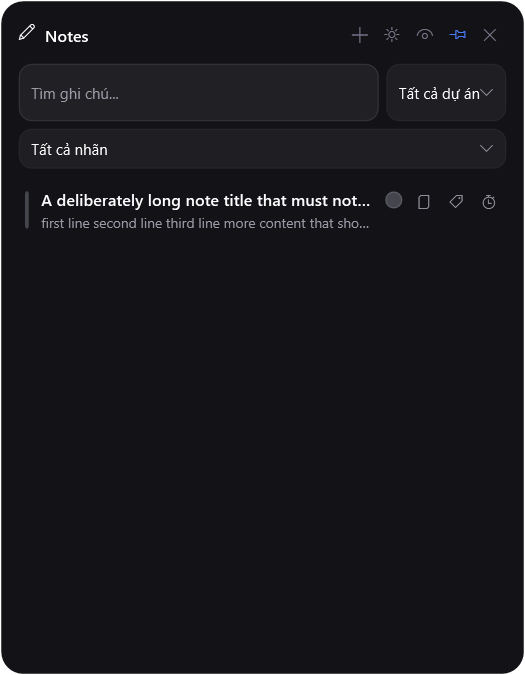
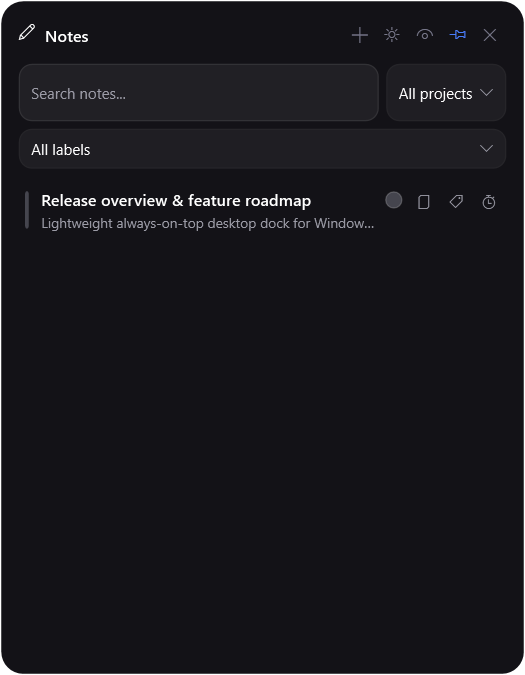
feat(docs): refresh UI screenshots to English and complete English chrome
- Switch remaining Window Tools labels and tooltips in MainWindow to English
- Re-render documentation assets (notes, translate-workspace, translate-dictionary) with English UI chrome and international demo content
- Add --render-assets flag and RenderDocumentationAssets helper to test suite
- Reorganize docs paths and ignore untracked sibling projects in .gitignore

diff --git a/NativeWidget.RoundTripTests/UiRenderSmoke.cs b/NativeWidget.RoundTripTests/UiRenderSmoke.cs
@@ -205,6 +205,94 @@ internal static class UiRenderSmoke
         }
     }
 
+    public static void RenderDocumentationAssets(string targetAssetsDir)
+    {
+        var root = Path.Combine(Path.GetTempPath(), "nativewidget-assets-" + Guid.NewGuid().ToString("N"));
+        var notes = Path.Combine(root, "notes");
+        Directory.CreateDirectory(notes);
+        const string id = "feature-overview";
+        File.WriteAllText(Path.Combine(notes, id + ".md"), string.Join('\n',
+            "# Release Overview",
+            "## Native Widget v0.1.1",
+            "Lightweight always-on-top desktop dock for Windows.",
+            "- Fast WPF UI without browser overhead",
+            "- Google Calendar and Tasks integration",
+            "- Offline-first notes and persistent timers"));
+        File.WriteAllText(Path.Combine(notes, "index.json"), JsonSerializer.Serialize(
+            new List<NoteMeta>
+            {
+                new()
+                {
+                    Id = id,
+                    Title = "Release overview & feature roadmap",
+                    TitleIsCustom = true,
+                    Preview = "Lightweight always-on-top desktop dock for Windows\nFast WPF UI without browser overhead\nGoogle Calendar and Tasks integration",
+                },
+            }));
+
+        Environment.SetEnvironmentVariable("NATIVEWIDGET_DATA_DIR", root);
+        var config = new AppConfig
+        {
+            RestoreWindowSessionEnabled = false,
+            TranslationSourceLanguage = "auto",
+            TranslationTargetLanguage = "es",
+            TranslationSelectionTrackingEnabled = false
+        };
+        config.Save();
+
+        var savedTranslation = VocabularyService.Add(
+            new TranslationResult("Hello world", "Hola mundo", "en", "es"), "clipboard", "Clipboard");
+        VocabularyService.SetTags(savedTranslation.Id, new[] { "greeting", "daily" });
+
+        var app = new App();
+        app.InitializeComponent();
+
+        var window = new NotesWindow(config) { Width = 420, Height = 540 };
+        var translation = new TranslationWindow(config) { Width = 390, Height = 520 };
+        var resultPopup = new TranslationResultPopup(
+            new TranslationResult("engage", "engager", "en", "fr",
+                new[] { new TranslationMeaningGroup("verb", new[] { "occupy", "attract", "involve", "hire", "pledge" }) },
+                new[] { "they attempted to engage Anthony in conversation", "the teams needed to engage with local communities", "the clutch will not engage" }),
+            "selection", "Dictionary lookup");
+
+        try
+        {
+            Directory.CreateDirectory(targetAssetsDir);
+
+            // 1. notes.png
+            window.Show();
+            Render(window, Path.Combine(targetAssetsDir, "notes.png"));
+
+            // 2. translate-idle.png
+            translation.Show();
+            translation.SetVocabularyExpanded(false);
+            translation.SetPanelExpanded(false, animate: false);
+            Render(translation, Path.Combine(targetAssetsDir, "translate-idle.png"));
+
+            // 3. translate-workspace.png
+            translation.SetVocabularyExpanded(true);
+            translation.SetMetadataFiltersVisible(true);
+            translation.SetPanelExpanded(true, animate: false);
+            Render(translation, Path.Combine(targetAssetsDir, "translate-workspace.png"));
+
+            // 4. translate-dictionary.png
+            resultPopup.Owner = translation;
+            resultPopup.Show();
+            Render(resultPopup, Path.Combine(targetAssetsDir, "translate-dictionary.png"));
+
+            Console.WriteLine("ASSETS_RENDERED_SUCCESSFULLY=" + targetAssetsDir);
+        }
+        finally
+        {
+            resultPopup.Close();
+            translation.Close();
+            window.Close();
+            app.Shutdown();
+            Environment.SetEnvironmentVariable("NATIVEWIDGET_DATA_DIR", null);
+            try { Directory.Delete(root, true); } catch { }
+        }
+    }
+
     private static void Render(FrameworkElement window, string path)
     {
         window.UpdateLayout();

diff --git a/NativeWidget/MainWindow.xaml.cs b/NativeWidget/MainWindow.xaml.cs
@@ -851,7 +851,7 @@ public partial class MainWindow : Window
     private void UpdateGlobalWindowControls()
     {
         var widgets = EnumerateVisibleWidgets().ToList();
-        GlobalWindowCount.Text = $"{widgets.Count} đang mở";
+        GlobalWindowCount.Text = widgets.Count == 1 ? "1 open" : $"{widgets.Count} open";
         var hasWidgets = widgets.Count > 0;
         GlobalPinBtn.IsEnabled = hasWidgets && _shelf?.IsShelved != true;
         GlobalGhostBtn.IsEnabled = hasWidgets && _shelf?.IsShelved != true;
@@ -866,8 +866,8 @@ public partial class MainWindow : Window
         GlobalPinBtn.Foreground = allPinned ? (Brush)FindResource("AccentBrush") : muted;
         GlobalGhostBtn.Foreground = allGhosted ? (Brush)FindResource("AccentBrush") : muted;
         GlobalShelfBtn.Foreground = shelved ? (Brush)FindResource("AccentBrush") : new SolidColorBrush(Color.FromRgb(0xA8, 0xB4, 0xFF));
-        GlobalPinBtn.ToolTip = allPinned ? "Bỏ ghim tất cả" : "Ghim tất cả";
-        GlobalGhostBtn.ToolTip = allGhosted ? "Tắt ghost cho tất cả" : "Bật ghost cho tất cả";
+        GlobalPinBtn.ToolTip = allPinned ? "Unpin all" : "Pin all";
+        GlobalGhostBtn.ToolTip = allGhosted ? "Disable ghost for all" : "Enable ghost for all";
         GlobalShelfBtn.ToolTip = shelved
             ? "Unshelf all (or click the Widgets taskbar icon / Ctrl+Alt+G)"
             : "Shelf all: unpin + non-interactive + one taskbar icon";

diff --git a/NativeWidget.RoundTripTests/Program.cs b/NativeWidget.RoundTripTests/Program.cs
@@ -1,4 +1,4 @@
-using System.IO;
+using System.IO;
 using System.Globalization;
 using System.Runtime.InteropServices;
 using System.Windows.Automation;
@@ -17,6 +17,13 @@ internal static class Program
     [STAThread]
     private static void Main(string[] args)
     {
+        if (args.Contains("--render-assets", StringComparer.Ordinal))
+        {
+            var targetDir = args.SkipWhile(a => a != "--render-assets").Skip(1).FirstOrDefault()
+                ?? Path.GetFullPath(Path.Combine(AppContext.BaseDirectory, "..", "..", "..", "..", "docs", "assets"));
+            UiRenderSmoke.RenderDocumentationAssets(targetDir);
+            return;
+        }
         if (args.Contains("--selection-harness", StringComparer.Ordinal))
         {
             RunSelectionHarness();

diff --git a/docs/README.md b/docs/README.md
@@ -1,0 +1,43 @@
+# Workspace documentation map
+
+This workspace contains the tracked Native Widget repository plus several
+independent local projects. Do not infer that every sibling directory belongs
+to the Native Widget product or shares its release lifecycle.
+
+## Native Widget repository
+
+| Area | Entry point |
+|---|---|
+| Product overview | [`../README.md`](../README.md) |
+| Architecture | [`../NativeWidget/docs/ARCHITECTURE.md`](../NativeWidget/docs/ARCHITECTURE.md) |
+| Contributing | [`../CONTRIBUTING.md`](../CONTRIBUTING.md) |
+| Release/launch material | [`release/LAUNCH_KIT.md`](release/LAUNCH_KIT.md) |
+| CodexPro local guide | [`guides/HUONG-DAN-CODEXPRO.md`](guides/HUONG-DAN-CODEXPRO.md) |
+| Packaging | [`../packaging/WINGET.md`](../packaging/WINGET.md) |
+
+`assets/` belongs to the Native Widget public README. Guide-specific assets
+live under `guides/assets/`.
+
+## Independent local projects
+
+| Project | Purpose | Documentation entry |
+|---|---|---|
+| VoiceHub | Voice interface for coding agents and Hermes | [`../VoiceHub/docs/README.md`](../VoiceHub/docs/README.md) |
+| Chrome for AI | Stealth real-Chrome MCP server | [`../grok-browser-mcp/docs/README.md`](../grok-browser-mcp/docs/README.md) |
+| Custom Font Generator | Browser font editor/exporter | [`../CustomFontGeneratorWebsite/docs/README.md`](../CustomFontGeneratorWebsite/docs/README.md) |
+| Workspace Canvas | Native host for the Mich canvas | [`../WorkspaceCanvas/docs/README.md`](../WorkspaceCanvas/docs/README.md) |
+| AI Text Humanization | Humanization skill/engine experiment | [`../AI-text-Humanization/README.md`](../AI-text-Humanization/README.md) |
+| VoiceAgent | Older standalone voice-agent prototype | [`../VoiceAgent/README.md`](../VoiceAgent/README.md) |
+
+These directories are not tracked by the parent Native Widget Git repository.
+Some, such as Chrome for AI and Custom Font Generator, have their own nested
+Git repositories.
+
+## Historical and generated directories
+
+- `app-backup-*`, `archive/`, and `legacy/` are historical snapshots. Do not
+  treat them as current implementation sources.
+- `dist/`, `bin/`, `obj/`, `node_modules/`, and test-result directories are
+  generated outputs or dependencies.
+- `app/` and `notion-sync-experiment/` are experiments, not the current Native
+  Widget entry point. Modify them only when a task names them explicitly.

diff --git a/README.md b/README.md
@@ -85,7 +85,7 @@ open returns at its last position and size after Native Widget or Windows starts
 - Credentials are entered in the Settings widget; they are never committed to this repository.
 - Google and Notion integrations are optional. Local widgets work without an online account.
 - The translation provider currently uses an undocumented Google endpoint; see the
-  [architecture notes](NativeWidget/ARCHITECTURE.md#translate) before relying on it for sensitive text.
+  [architecture notes](NativeWidget/docs/ARCHITECTURE.md#translate) before relying on it for sensitive text.
 
 <details>
 <summary><strong>Google Calendar and Tasks setup</strong></summary>
@@ -128,7 +128,8 @@ Create the same release archives used by GitHub Releases:
 ```
 
 Architecture, storage formats and troubleshooting notes live in
-[`NativeWidget/ARCHITECTURE.md`](NativeWidget/ARCHITECTURE.md).
+[`NativeWidget/docs/ARCHITECTURE.md`](NativeWidget/docs/ARCHITECTURE.md). The
+workspace-wide documentation map is [`docs/README.md`](docs/README.md).
 
 ## Keyboard shortcuts
 

diff --git a/CONTRIBUTING.md b/CONTRIBUTING.md
@@ -19,7 +19,8 @@ dotnet run --project NativeWidget.RoundTripTests/NativeWidget.RoundTripTests.csp
 ```
 
 Keep changes focused. Native Widget deliberately uses plain WPF and small services rather than
-adding a UI framework or broad dependency for a single feature. Update `ARCHITECTURE.md` when a
+adding a UI framework or broad dependency for a single feature. Update
+`NativeWidget/docs/ARCHITECTURE.md` when a
 change affects persistence, integrations, window behavior or troubleshooting.
 
 ## Pull requests

diff --git a/NativeWidget/docs/README.md b/NativeWidget/docs/README.md
@@ -1,0 +1,9 @@
+# Native Widget documentation map
+
+- [`ARCHITECTURE.md`](ARCHITECTURE.md) — architecture, persistence formats,
+  integrations, and troubleshooting.
+- [`../../README.md`](../../README.md) — public product overview and build
+  instructions.
+- [`../../docs/release/LAUNCH_KIT.md`](../../docs/release/LAUNCH_KIT.md) —
+  release messaging and launch checklist.
+- [`../../packaging/WINGET.md`](../../packaging/WINGET.md) — WinGet packaging.
